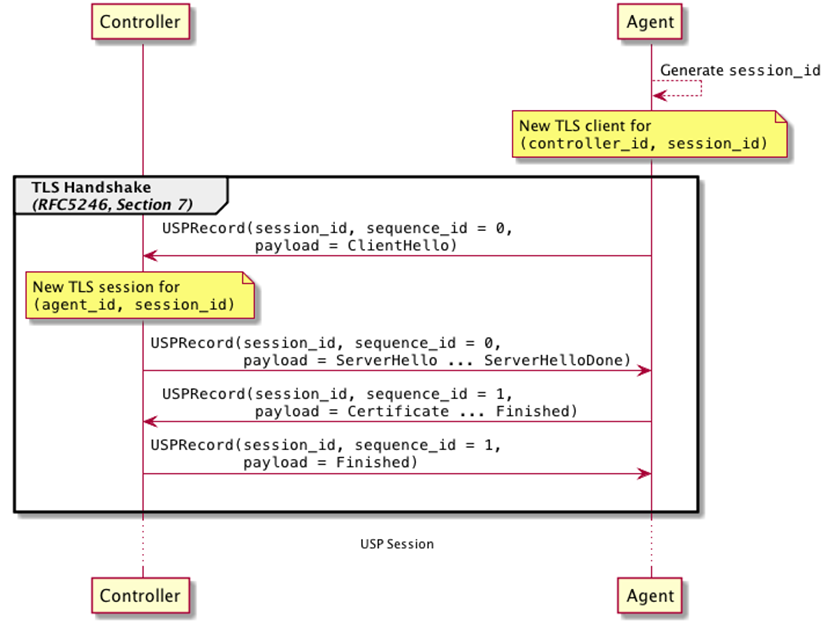
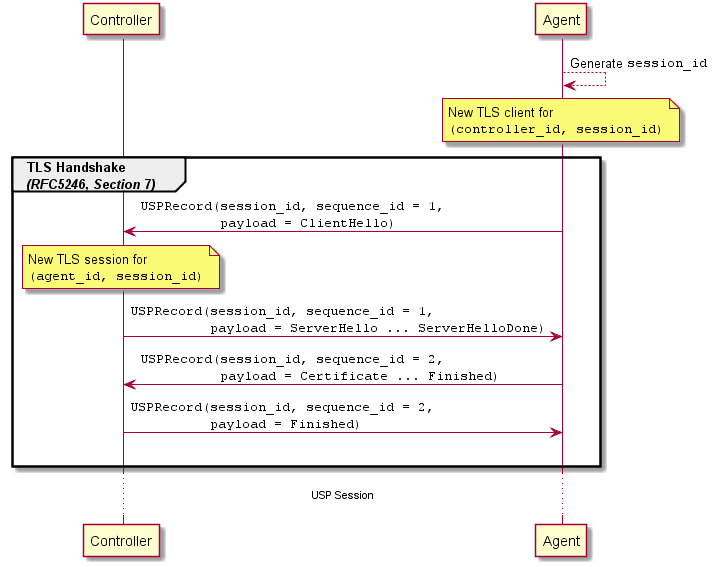
USP-508 USP-509 USP-510 USP-511 USP-514

diff --git a/specification/messages/index.md b/specification/messages/index.md
@@ -896,7 +896,7 @@ This field returns a repeated set of Path Names to Object Instances.
 
 This field contains a repeated set of messages of type `UnaffectedPathError`.
 
-**R-DEL.3** - If any of the Object Instances specified in the `obj_paths` field fail to delete, this set MUST include one `UnaffectedPathError` message for each of the Object Instances that failed to Delete.
+**R-DEL.3** - If the `allow_partial` field is set to false, the Agent treats each entry in `obj_path` holistically. Any entry referring to an Object which is non-deletable or doesn't exist in the supported data model MUST cause the Delete message to fail and return an Error message.
 
 **R-DEL.4** - If the Controller does not have Read permission on any of the Objects specified in `unaffected_paths`, these Objects MUST NOT be returned in this field.
 
@@ -1897,15 +1897,11 @@ body {
           }
           {
             key: "CommandKey"
-            value: ""
+            value: "controller-command-key"
           }
           {
-            key: "Parameter.1.Path"
-            value: "Device.LocalAgent.Controller.1.Enable"
-          }
-          {
-            key: "Parameter.1.Value"
-            value: "True"
+            key: "ParameterMap"
+            value: "{Parameter.1.Path:Device.LocalAgent.Controller.1.Enable,Parameter.1.Value.:True}"
           }
         }
       }
@@ -2271,7 +2267,7 @@ USP uses error codes with a range 7000-7999 for both Controller and Agent errors
 | `7022` | Command failure | Operate | This error indicates that an command initiated in an Operate Request failed to complete for one or more reasons explained in the err_msg field. |
 | `7023` | Command canceled | Operate | This error indicates that an asynchronous command initiated in an Operate Request failed to complete because it was cancelled using the Cancel() operation. |
 | `7024` | Delete failure | Delete | This error indicates that this Object Instance failed to be deleted. |
-| `7025` | Object exists with duplicate key | Add | This error indicates that an Object tried to be created with a unique keys that already exist, or the unique keys were configured to those that already exist. |
+| `7025` | Object exists with duplicate key | Add, Set | This error indicates that an Object already exists with the unique keys specified in an Add or Set message. |
 | `7026` | Invalid path | Any | This error indicates that the Object or Parameter Path Name specified does not match any Objects or Parameters in the Agent's Supported Data Model |
 | `7027` | Invalid command arguments | Operate | This error indicates that an Operate message failed due to invalid or unknown arguments specified in the command. |
 | `7100-7199` | USP Record error codes | - | These errors are listed and described in (Message Transfer Protocols)[/specification/mtp/]. |

diff --git a/specification/e2e-message-exchange/index.md b/specification/e2e-message-exchange/index.md
@@ -562,7 +562,7 @@ While traditionally deployed over reliable streams, TLS is a record-based protoc
 
 When TLS is used as a payload protection mechanism for USP Message, TLS requires the use of the Session Context to negotiate its TLS session. The USP Endpoint that initiated the Session Context will act in the TLS client role when establishing the security layer. The security layer is constructed using a standard TLS handshake, encapsulated within one or more of the above-defined USP Record payload datagrams. Per the TLS protocol, establishment of a new TLS session requires two round-trips.
 
-<img src="tls-session-handshake.png">
+<img src="handshake.png">
 
 Figure E2E.4 – TLS session handshake
 

diff --git a/specification/index.md b/specification/index.md
@@ -519,7 +519,7 @@ This specification uses the following abbreviations:
 |USP	| User Services Platform |
 |CWMP	| CPE WAN Management Protocol|
 |DNS	| Domain Name Service |
-|DNS-SD	| Domain Name Service - Service Definition |
+|DNS-SD	| Domain Name Service - Service Discovery |
 |DT	| Device Type Definition |
 |E2E | End to End (Message Exchange) |
 |HMAC | Hash Message Authentication Code |
